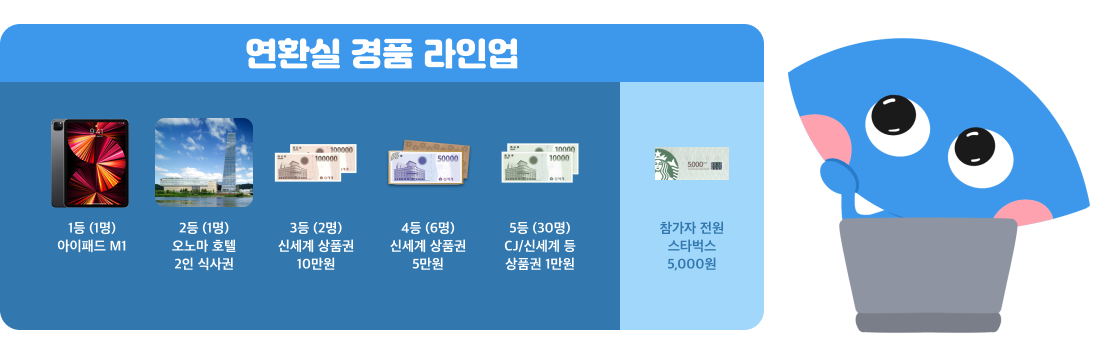
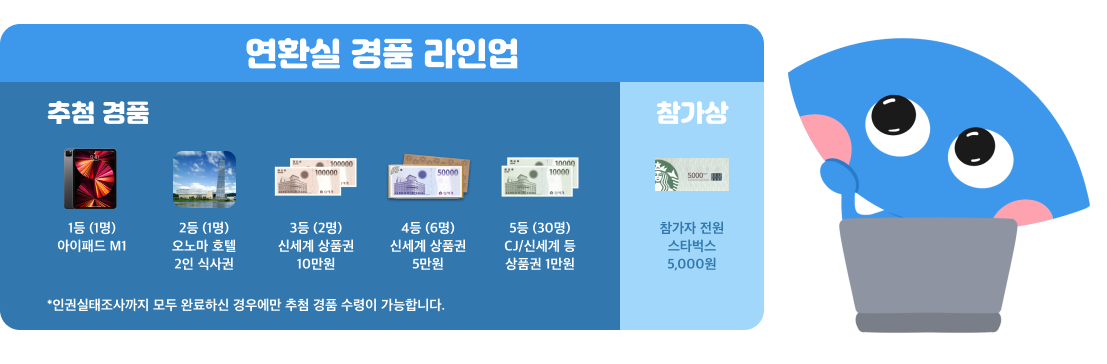
설명 수정

diff --git a/docs/index.html b/docs/index.html
@@ -215,7 +215,7 @@
     </a>
     <a href="#" onclick="javascript: alert('준비 중입니다.')">
       <h2><span class="step">3단계</span><br />인권실태조사 참여하기</h2>
-      <p>추가로 <strong>인권실태조사</strong>까지 모두 완료하신 경우 연구환경실태조사 경품 추첨에 응모됩니다.</p>
+      <p>추가로 <strong>인권실태조사</strong>까지 모두 완료하신 경우에만 연구환경실태조사 추첨 경품을 수령하실 수 있습니다.</p>
     </a>
   </div>
 
